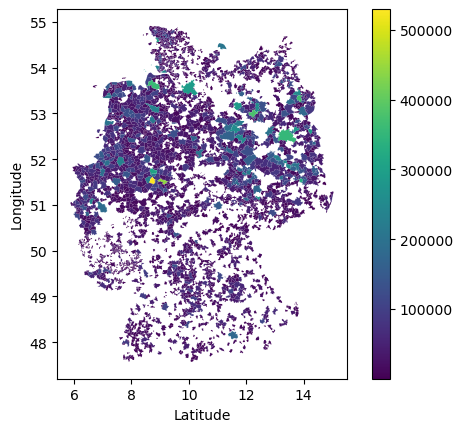
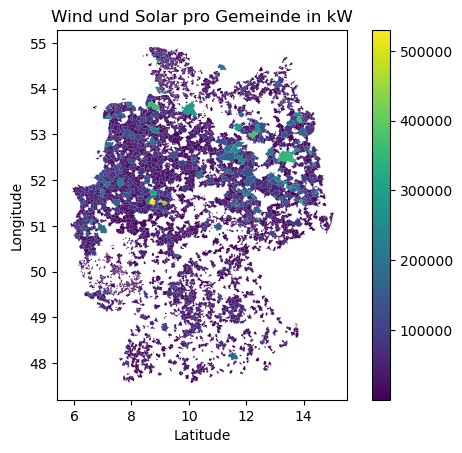
Challenge 8 (improvement)

diff --git a/processing-offis.py b/processing-offis.py
@@ -5,7 +5,8 @@ import matplotlib.pyplot as plt
 data = gp.read_file('data.json')
 data = data[data['wind']!=data['wind'].max()]
 print(data.columns)
-ax = data.plot('wind', legend=True, cmap='viridis', title='Windkraft pro Gemeinde in kW')
+ax = data.plot('wind', legend=True, cmap='viridis')
+ax.set_title('Windkraft pro Gemeinde in kW')
 ax.set_xlabel("Latitude")
 ax.set_ylabel("Longitude")
 
@@ -16,7 +17,8 @@ plt.close()
 max_res = data[['key', 'name', 'geometry', 'id']]
 max_res['nennleistung_kW_solar_wind']=data['wind']+data['solar']
 
-ax = max_res.plot('nennleistung_kW_solar_wind', legend=True, cmap='viridis', title='Wind und Solar pro Gemeinde in kW')
+ax = max_res.plot('nennleistung_kW_solar_wind', legend=True, cmap='viridis')
+ax.set_title('Wind und Solar pro Gemeinde in kW')
 ax.set_xlabel("Latitude")
 ax.set_ylabel("Longitude")
 plt.savefig('./datamap-offis-nennleistung-kW.png', bbox_inches="tight")
